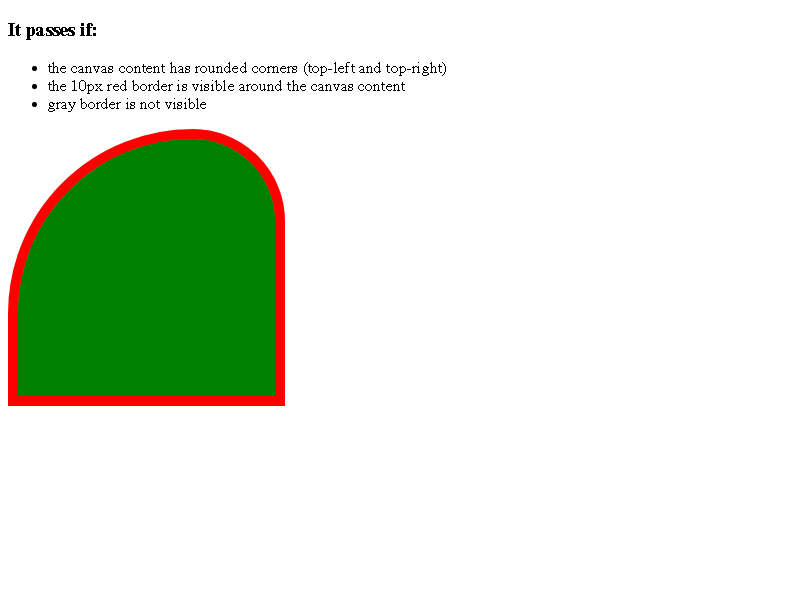
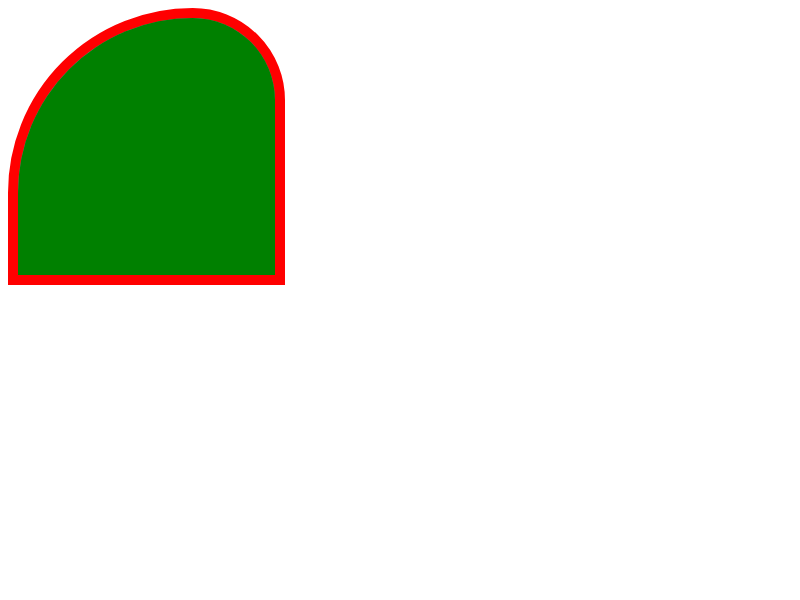
Remove text from border-radius-mask-canvas-border.html
This test has some text explaining the conditions for it to pass, which
sometimes renders differently in some runs (see linked bug). The text
doesn't add nothing to the behavior that is being tested, so this CL
removes it and updates the expectations.

Bug: 404294122
Commit-Queue: Gaston Rodriguez <gastonr@microsoft.com>
Cr-Commit-Position: refs/heads/main@{#1441153}

Changed region(s): [[0.0, 0.0, 0.5, 0.69], [0.5312, 0.09, 0.5625, 0.12]]

diff --git a/web_tests/fast/borders/border-radius-mask-canvas-border.html b/web_tests/fast/borders/border-radius-mask-canvas-border.html
@@ -1,29 +1,31 @@
 <!DOCTYPE HTML>
+<!-- The test passes if:
+      - the canvas content has rounded corners (top-left and top-right)
+      - the 10px red border is visible around the canvas content
+      - gray border is not visible
+    -->
 <html>
-  <head>
-    <style>
-      canvas {
-        background-color: gray;
-        border: 10px solid red;
-        border-radius: 200px 100px 0px 0px;
-      }
-    </style>
-  </head>
-  <body>
-    <h3>It passes if:</h3>
-    <ul>
-      <li>the canvas content has rounded corners (top-left and top-right)</li>
-      <li>the 10px red border is visible around the canvas content</li>
-      <li>gray border is not visible</li>
-    </ul>
-    <canvas id="theCanvas" width="257" height="257"></canvas>
-    <script>
-      if (window.internals) {
-        internals.runtimeFlags.accelerated2dCanvasEnabled = true;
-      }
-      var context = theCanvas.getContext('2d');
-      context.fillStyle = 'green';
-      context.fillRect(0, 0, theCanvas.width, theCanvas.width);
-    </script>
-  </body>
+
+<head>
+  <style>
+    canvas {
+      background-color: gray;
+      border: 10px solid red;
+      border-radius: 200px 100px 0px 0px;
+    }
+  </style>
+</head>
+
+<body>
+  <canvas id="theCanvas" width="257" height="257"></canvas>
+  <script>
+    if (window.internals) {
+      internals.runtimeFlags.accelerated2dCanvasEnabled = true;
+    }
+    var context = theCanvas.getContext('2d');
+    context.fillStyle = 'green';
+    context.fillRect(0, 0, theCanvas.width, theCanvas.width);
+  </script>
+</body>
+
 </html>
